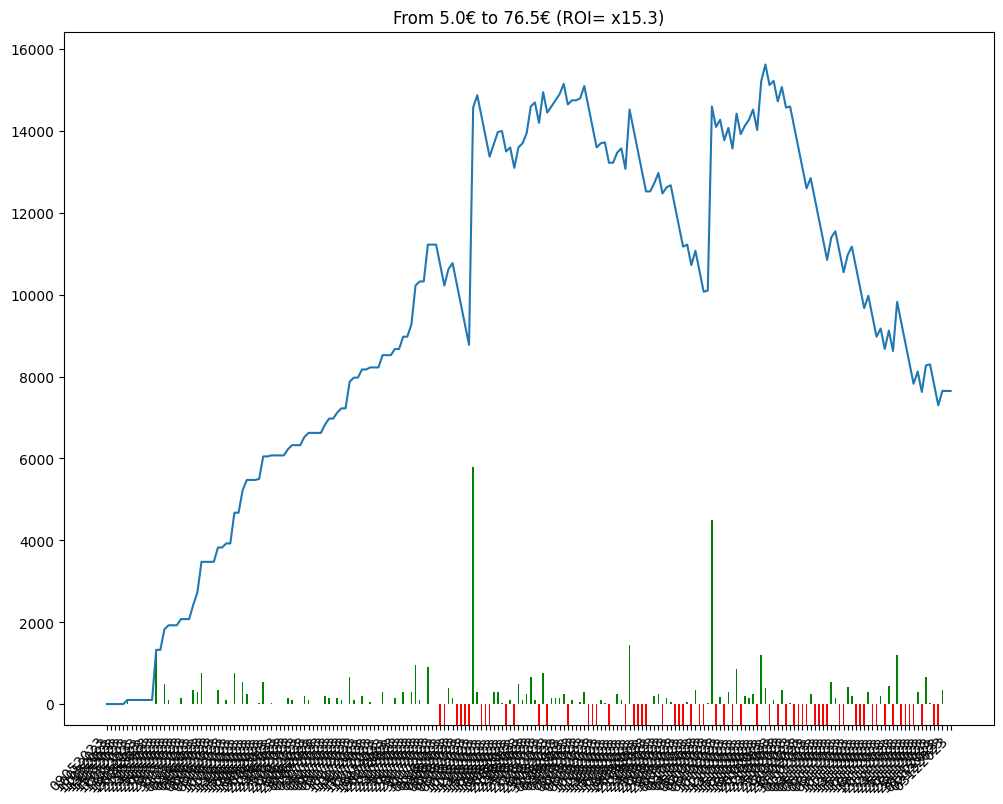
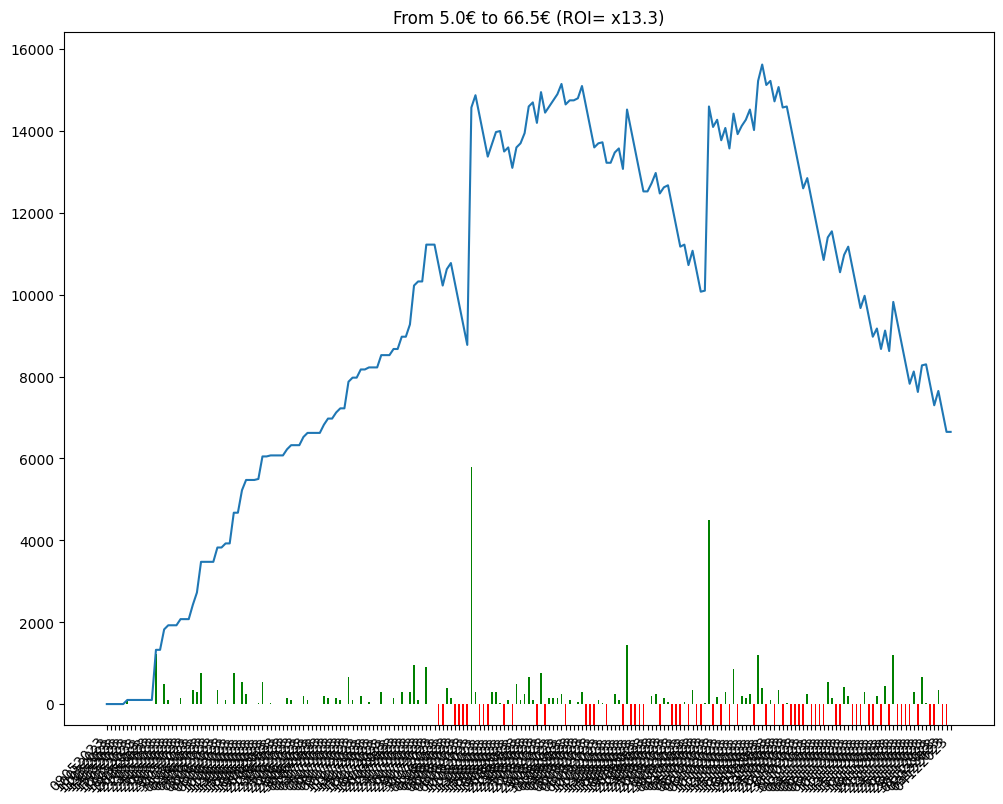
comment from python script

diff --git a/bethistory.html b/bethistory.html
@@ -86,8 +86,9 @@
             En observant la courbe 🤔, on peut avoir une idée visuelle de l'évolution des gains et ainsi évaluer le model utilisé 🧑🏫.
         </p>
         
-        <img src = "/candle.png" alt="candle chart"/><table><tr><td>Chevaux joués</td><td>Gains</td><td>URL Circuits</td></tr><tr><td>9 - SOLAR GOGO</td><td>0</td><td><a href=https://www.pmu.fr/turf/03122023/r2/c7 target="_blank">https://www.pmu.fr/turf/03122023/r2/c7</a></td></tr>
-<tr><td>7 - HONKY TONK WOMAN</td><td>0</td><td><a href=https://www.pmu.fr/turf/02122023/r4/c6 target="_blank">https://www.pmu.fr/turf/02122023/r4/c6</a></td></tr>
+        <img src = "/candle.png" alt="candle chart"/><table><tr><td>Chevaux joués</td><td>Gains</td><td>URL Circuits</td></tr><tr><td>10 - POLARKLY</td><td>0</td><td><a href=https://www.pmu.fr/turf/04122023/r2/c1 target="_blank">https://www.pmu.fr/turf/04122023/r2/c1</a></td></tr>
+<tr><td>9 - SOLAR GOGO</td><td>-500</td><td><a href=https://www.pmu.fr/turf/03122023/r2/c7 target="_blank">https://www.pmu.fr/turf/03122023/r2/c7</a></td></tr>
+<tr><td>7 - HONKY TONK WOMAN</td><td>-500</td><td><a href=https://www.pmu.fr/turf/02122023/r4/c6 target="_blank">https://www.pmu.fr/turf/02122023/r4/c6</a></td></tr>
 <tr><td>1 - ZWEIG</td><td>+350</td><td><a href=https://www.pmu.fr/turf/01122023/r3/c1 target="_blank">https://www.pmu.fr/turf/01122023/r3/c1</a></td></tr>
 <tr><td>2 - VINCA</td><td>-500</td><td><a href=https://www.pmu.fr/turf/30112023/r4/c3 target="_blank">https://www.pmu.fr/turf/30112023/r4/c3</a></td></tr>
 <tr><td>6 - FASHION GREY</td><td>-500</td><td><a href=https://www.pmu.fr/turf/29112023/r1/c4 target="_blank">https://www.pmu.fr/turf/29112023/r1/c4</a></td></tr>
